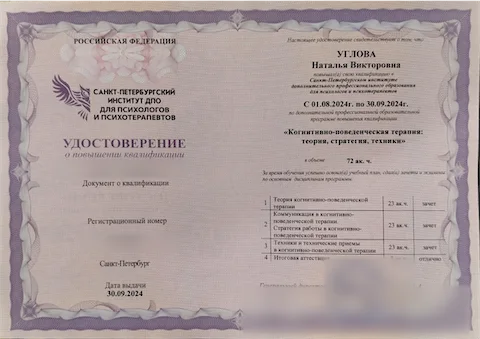
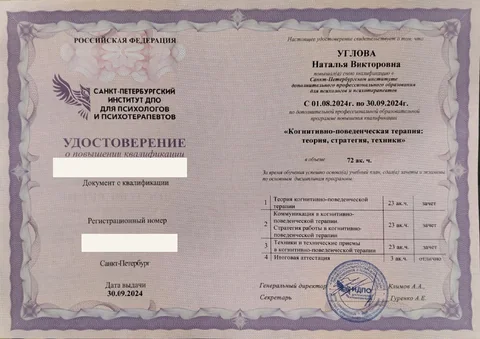
Update Natalya name and restore seals in small document previews

diff --git a/app/site-header.tsx b/app/site-header.tsx
@@ -1,13 +1,11 @@
 "use client";
 
-/* eslint-disable @next/next/no-html-link-for-pages -- locale changes cross root layouts and must reload the document */
-
 import { useEffect, useRef, useState } from "react";
-import type { Locale, SiteContent } from "./content";
+import type { SiteContent } from "./content";
 
-type HeaderContent = Pick<SiteContent, "brand" | "navigation" | "languageSwitcherLabel">;
+type HeaderContent = Pick<SiteContent, "brand" | "navigation">;
 
-export function SiteHeader({ locale, page }: { locale: Locale; page: HeaderContent }) {
+export function SiteHeader({ page }: { page: HeaderContent }) {
   const [isMenuOpen, setIsMenuOpen] = useState(false);
   const [isScrolled, setIsScrolled] = useState(false);
   const menuButtonRef = useRef<HTMLButtonElement>(null);
@@ -90,7 +88,6 @@ export function SiteHeader({ locale, page }: { locale: Locale; page: HeaderConte
       </nav>
 
       <div className="header-actions">
-        <LanguageSwitcher locale={locale} label={page.languageSwitcherLabel} className="header-language" />
         <a className="button button-small header-contact" href="#contacts">
           {page.navigation.contact}
         </a>
@@ -138,27 +135,7 @@ export function SiteHeader({ locale, page }: { locale: Locale; page: HeaderConte
             {page.navigation.contact}
           </a>
         </nav>
-        <LanguageSwitcher locale={locale} label={page.languageSwitcherLabel} className="menu-language" tabIndex={isMenuOpen ? 0 : -1} />
       </aside>
     </header>
-  );
-}
-
-function LanguageSwitcher({
-  locale,
-  label,
-  className,
-  tabIndex,
-}: {
-  locale: Locale;
-  label: string;
-  className?: string;
-  tabIndex?: number;
-}) {
-  return (
-    <div className={`language-switcher${className ? ` ${className}` : ""}`} aria-label={label}>
-      <a href="/" lang="ru" aria-current={locale === "ru" ? "page" : undefined} tabIndex={tabIndex}>RU</a>
-      <a href="/en/" lang="en" aria-current={locale === "en" ? "page" : undefined} tabIndex={tabIndex}>EN</a>
-    </div>
   );
 }

diff --git a/app/metadata.ts b/app/metadata.ts
@@ -2,15 +2,8 @@ import type { Metadata } from "next";
 import { content, type Locale } from "./content";
 import { siteConfig } from "./site-config";
 
-const languageAlternates = {
-  "ru-RU": "/",
-  en: "/en/",
-  "x-default": "/",
-};
-
 export function createMetadata(locale: Locale): Metadata {
   const page = content[locale];
-  const alternateLocale = locale === "ru" ? ["en_US"] : ["ru_RU"];
 
   return {
     metadataBase: siteConfig.url,
@@ -19,12 +12,10 @@ export function createMetadata(locale: Locale): Metadata {
     keywords: [...page.seo.keywords],
     alternates: {
       canonical: page.path,
-      languages: languageAlternates,
     },
     openGraph: {
       type: "website",
       locale: page.seo.openGraphLocale,
-      alternateLocale,
       url: page.path,
       siteName: `${page.brand.role} ${page.brand.name}`,
       title: page.seo.openGraphTitle,
@@ -45,6 +36,7 @@ export function createMetadata(locale: Locale): Metadata {
       images: [page.seo.openGraphImage],
     },
     icons: { icon: "/favicon.svg?v=2" },
-    robots: { index: true, follow: true },
+    // Keep the English route for later, without promoting or indexing it.
+    robots: { index: locale === "ru", follow: true },
   };
 }

diff --git a/app/education-documents.ts b/app/education-documents.ts
@@ -46,12 +46,12 @@ export const educationLabels: Record<Locale, {
     title: "Документы об образовании", count: "2 диплома и 3 удостоверения",
     carousel: "Документы об образовании Натальи", previous: "Предыдущий документ", next: "Следующий документ",
     pause: "Пауза", play: "Продолжить", manual: "Смена вручную", goTo: "Показать документ",
-    copyNote: "Публичная копия: номера и подписи скрыты",
+    copyNote: "Уменьшенная копия: номера документов скрыты",
   },
   en: {
     title: "Education documents", count: "2 diplomas and 3 certificates",
     carousel: "Natalya's education documents", previous: "Previous document", next: "Next document",
     pause: "Pause", play: "Resume", manual: "Browse manually", goTo: "Show document",
-    copyNote: "Public copy: document numbers and signatures are hidden",
+    copyNote: "Small preview: document numbers are hidden",
   },
 };

diff --git a/app/landing-page.tsx b/app/landing-page.tsx
@@ -58,7 +58,7 @@ export function LandingPage({ locale }: { locale: Locale }) {
         dangerouslySetInnerHTML={{ __html: JSON.stringify(jsonLd) }}
       />
 
-      <SiteHeader locale={locale} page={page} />
+      <SiteHeader page={page} />
 
       <section className="hero" id="top">
         <div className="hero-copy">

diff --git a/app/content.ts b/app/content.ts
@@ -48,7 +48,7 @@ export const content = {
     languageSwitcherLabel: "Язык сайта",
     brand: {
       initial: "Н",
-      name: "Наталья",
+      name: "Наталья Углова",
       role: "практикующий психолог",
       homeLabel: "На главную",
     },
